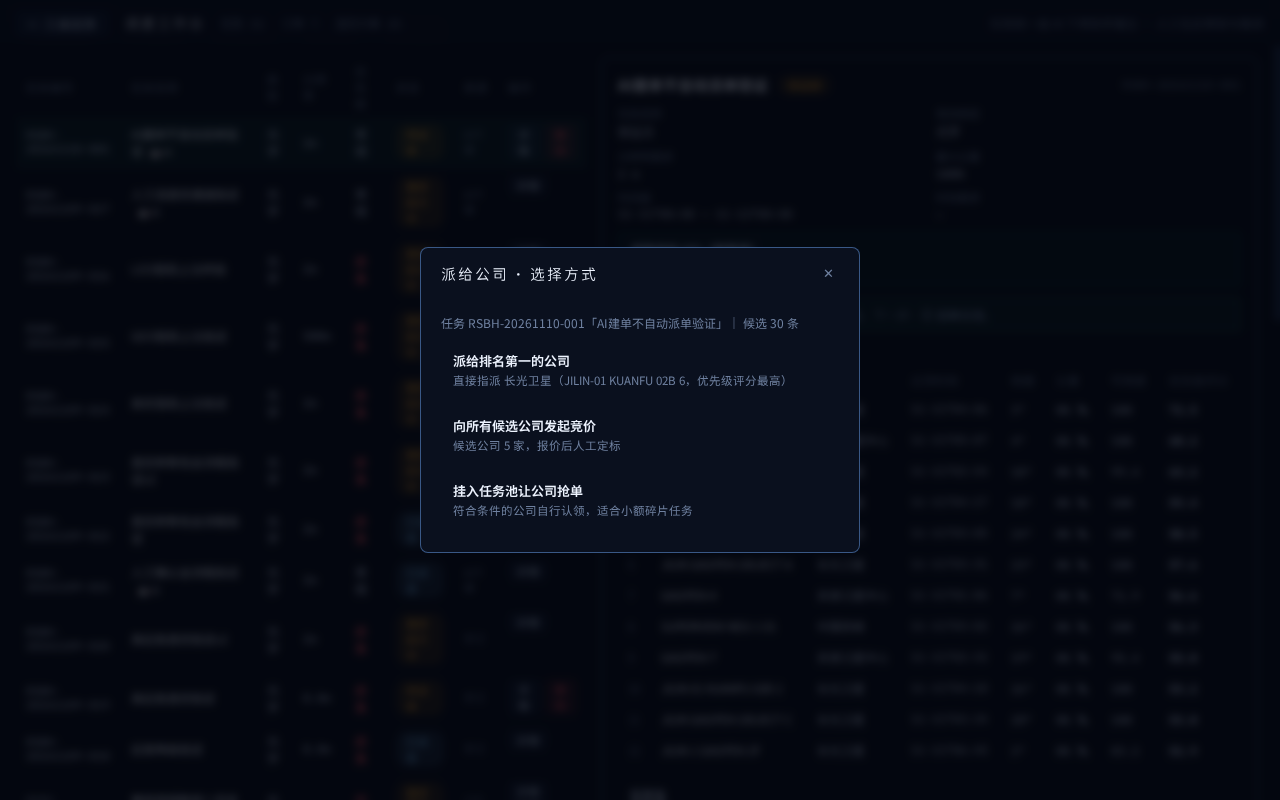
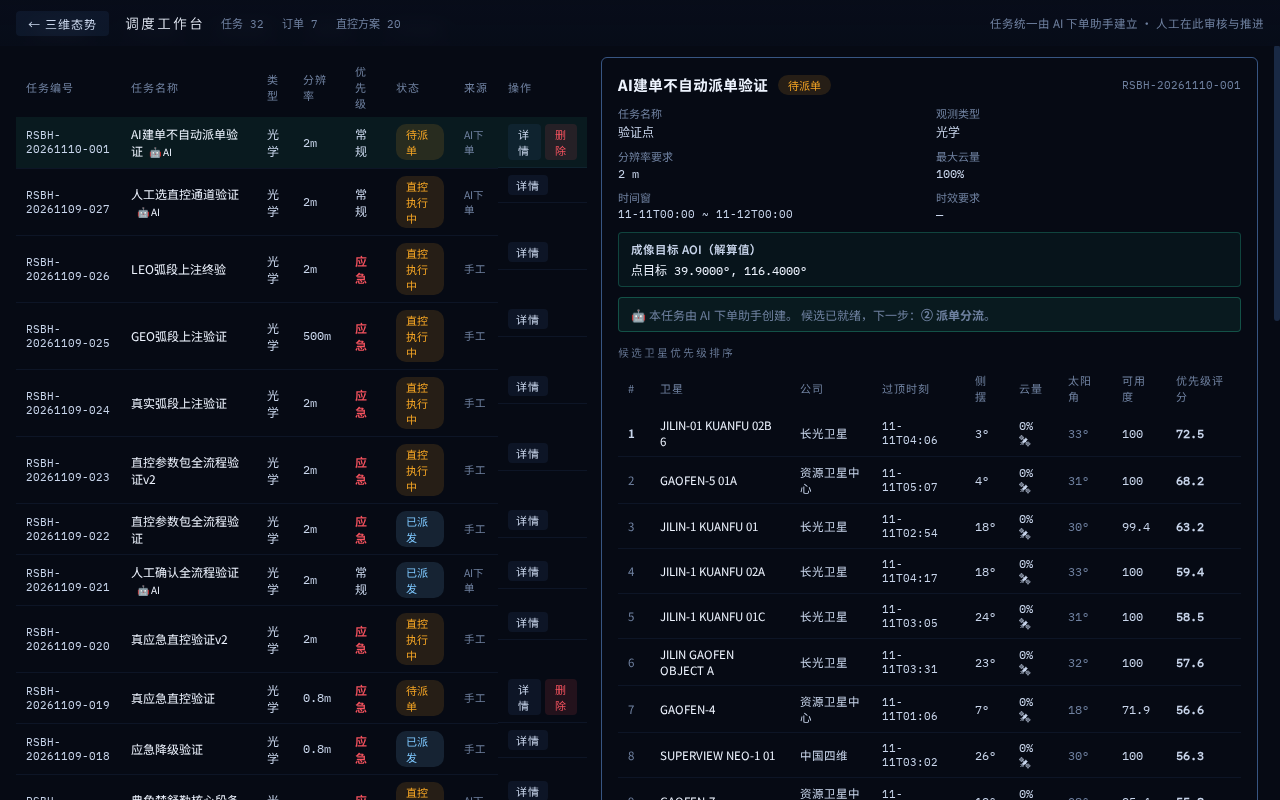
光照条件溯源完善：candidates加sunElDeg列（TCA时刻太阳高度角落库），rankings透出，前端排序清单加'太阳角'列（≥10°正常色/<10°红色警示+悬停说明）；此前光照判定已在可见窗与约束过滤生效（夜间窗光学星被筛），本步补齐溯源展示；实测任务36候选太阳角29.8~32.7°正确落库

diff --git a/client/src/pages/DispatchWorkbench.jsx b/client/src/pages/DispatchWorkbench.jsx
@@ -350,7 +350,7 @@ function TasksTab({ tasks, selected, openTask, runCandidates, doDispatch, busy, 
         <table className="mission-table">
           <thead><tr><th>任务编号</th><th>任务名称</th><th>类型</th><th>分辨率</th><th>优先级</th><th>状态</th><th>来源</th><th>操作</th></tr></thead>
           <tbody>
-            {tasks.length === 0 && <tr><td colSpan={8} style={{ textAlign: 'center', color: 'var(--text-dim)', padding: 20 }}>暂无任务，点击右上角「新建任务」创建</td></tr>}
+            {tasks.length === 0 && <tr><td colSpan={9} style={{ textAlign: 'center', color: 'var(--text-dim)', padding: 20 }}>暂无任务，点击右上角「新建任务」创建</td></tr>}
             {tasks.map(t => (
               <tr key={t.id} onClick={() => openTask(t.id)} style={{ background: selected?.id === t.id ? 'rgba(45,212,167,0.08)' : undefined }}>
                 <td style={{ fontFamily: 'var(--font-mono)', fontSize: 11 }}>{t.taskNo}</td>
@@ -446,7 +446,7 @@ function TasksTab({ tasks, selected, openTask, runCandidates, doDispatch, busy, 
             <>
               <div className="section-label">候选卫星优先级排序</div>
               <table className="mission-table" style={{ fontSize: 11.5 }}>
-                <thead><tr><th>#</th><th>卫星</th><th>公司</th><th>过顶时刻</th><th>侧摆</th><th>云量</th><th>可用度</th><th>优先级评分</th></tr></thead>
+                <thead><tr><th>#</th><th>卫星</th><th>公司</th><th>过顶时刻</th><th>侧摆</th><th>云量</th><th>太阳角</th><th>可用度</th><th>优先级评分</th></tr></thead>
                 <tbody>
                   {selected.rankings.slice(0, 12).map(r => (
                     <tr key={r.id}>
@@ -457,6 +457,10 @@ function TasksTab({ tasks, selected, openTask, runCandidates, doDispatch, busy, 
                       <td style={{ fontFamily: 'var(--font-mono)' }}>{r.slewDeg?.toFixed(0)}°</td>
                       <td style={{ fontFamily: 'var(--font-mono)' }} title={r.cloudSource === 'real' ? '真实气象预报 (open-meteo)' : '内置模拟气象场（超出72h预报窗）'}>
                         {(r.cloudFc * 100).toFixed(0)}%{r.cloudSource === 'real' ? ' 🛰' : ''}
+                      </td>
+                      <td style={{ fontFamily: 'var(--font-mono)', color: (r.sunElDeg ?? 40) >= 10 ? 'var(--text-dim)' : 'var(--danger)' }}
+                        title={(r.sunElDeg ?? 40) >= 10 ? '光照满足（≥10°）' : '光照不足'}>
+                        {r.sunElDeg != null ? `${r.sunElDeg.toFixed(0)}°` : '—'}
                       </td>
                       <td style={{ fontFamily: 'var(--font-mono)' }}>{r.availability}</td>
                       <td style={{ fontFamily: 'var(--font-mono)', color: 'var(--accent)', fontWeight: 600 }}>{Number(r.S).toFixed(1)}</td>
